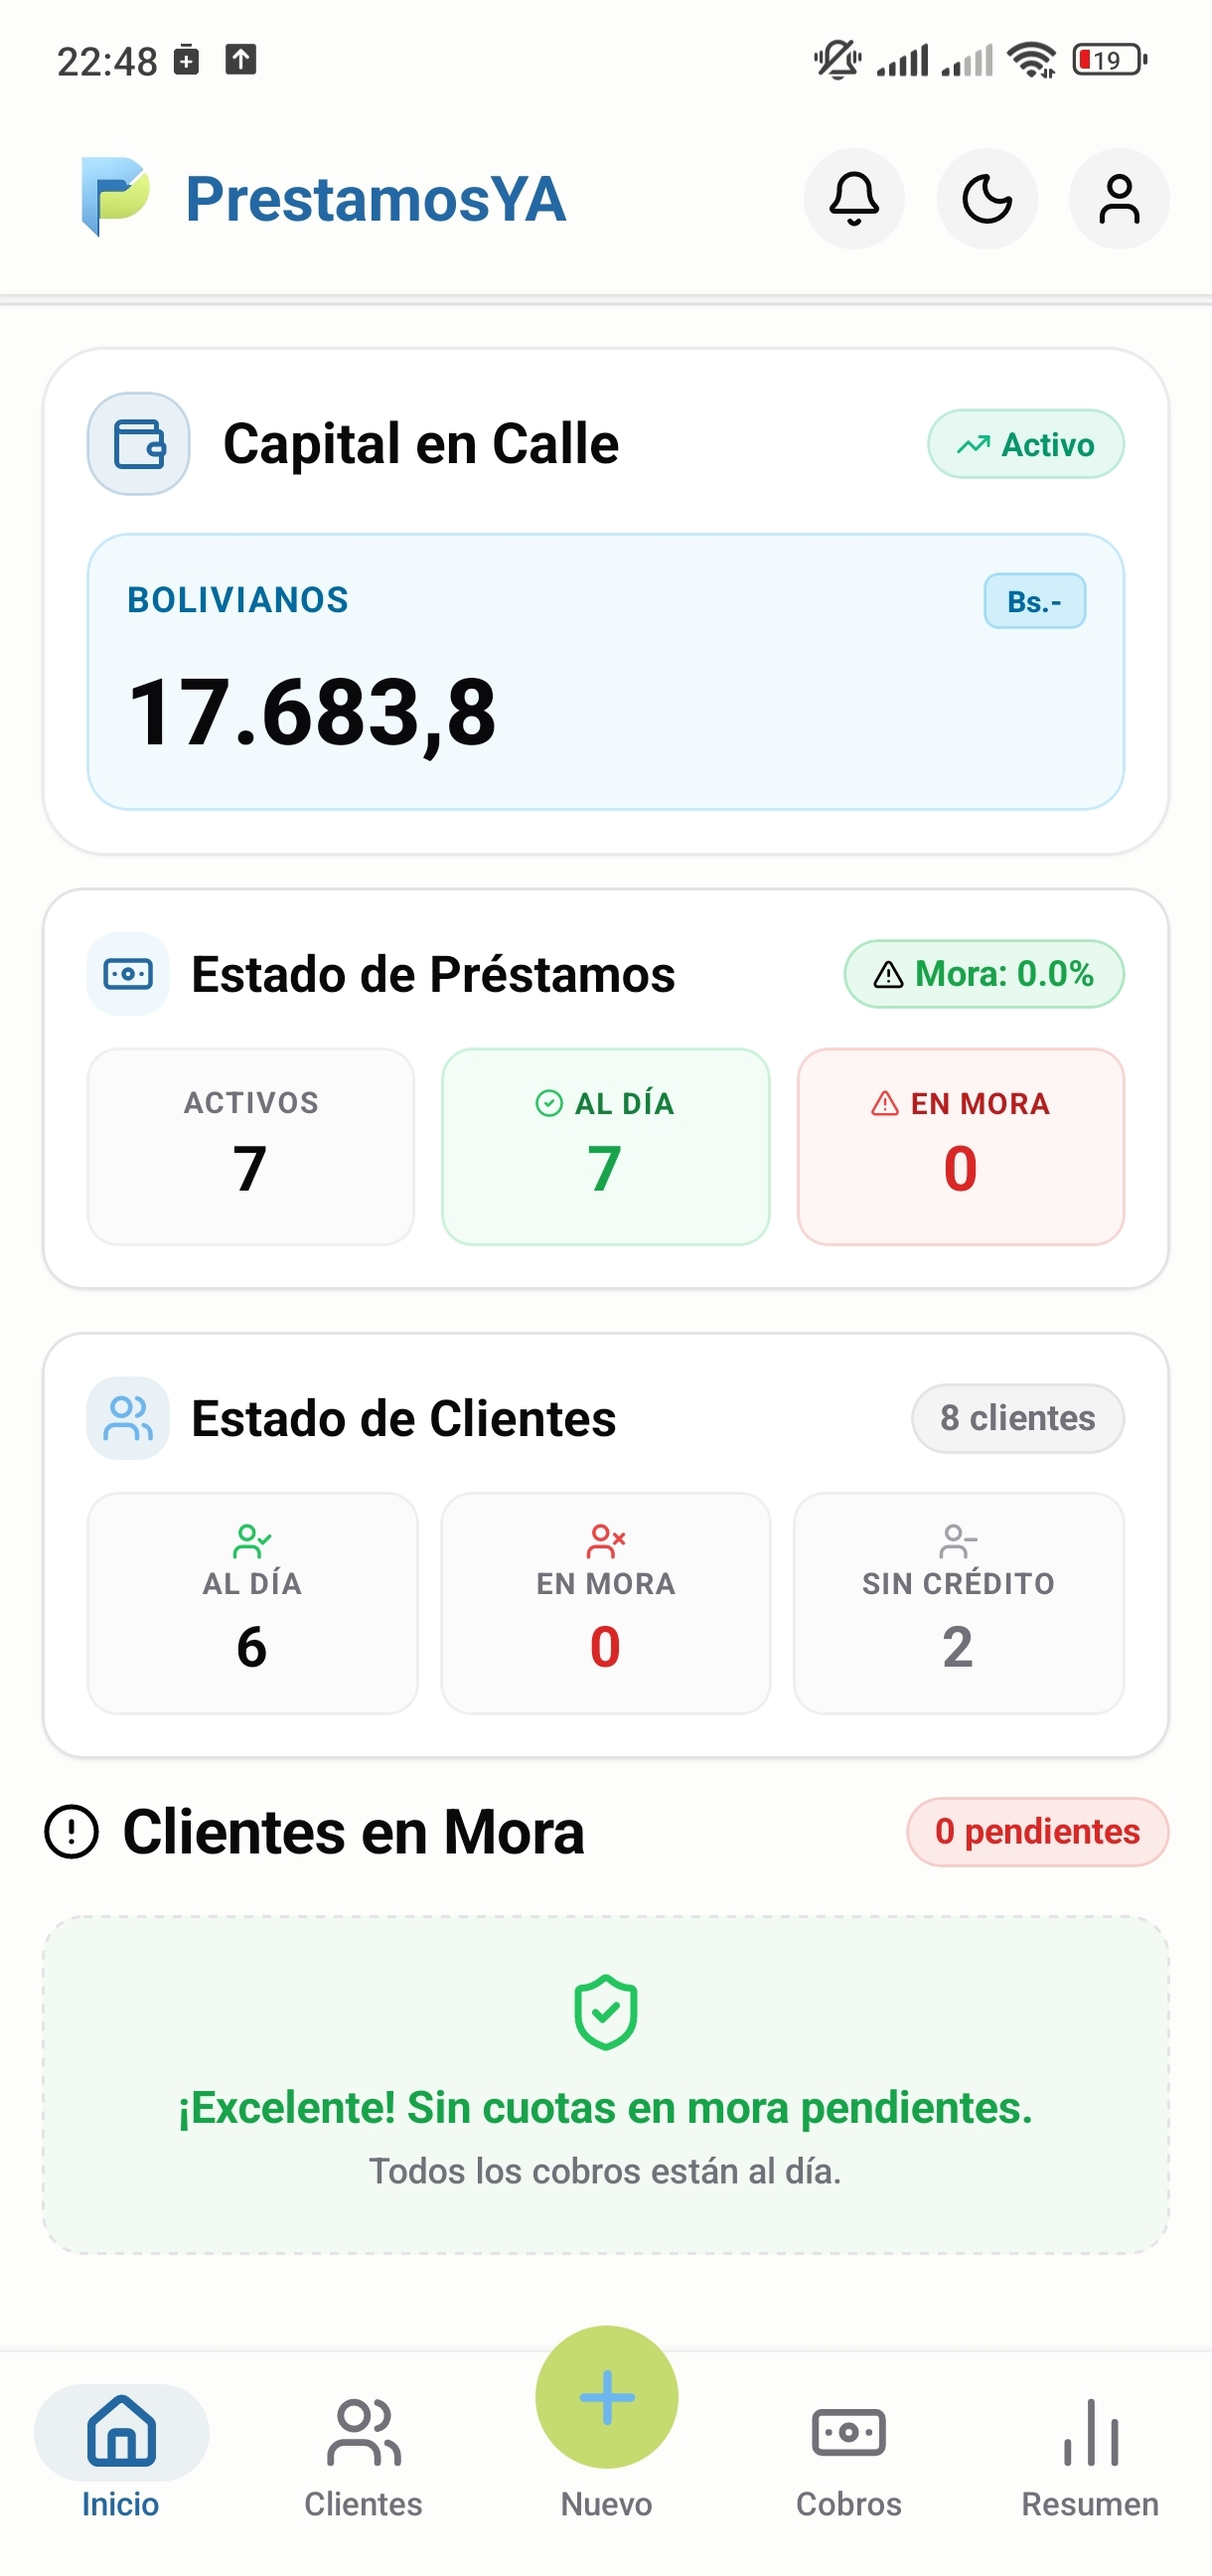
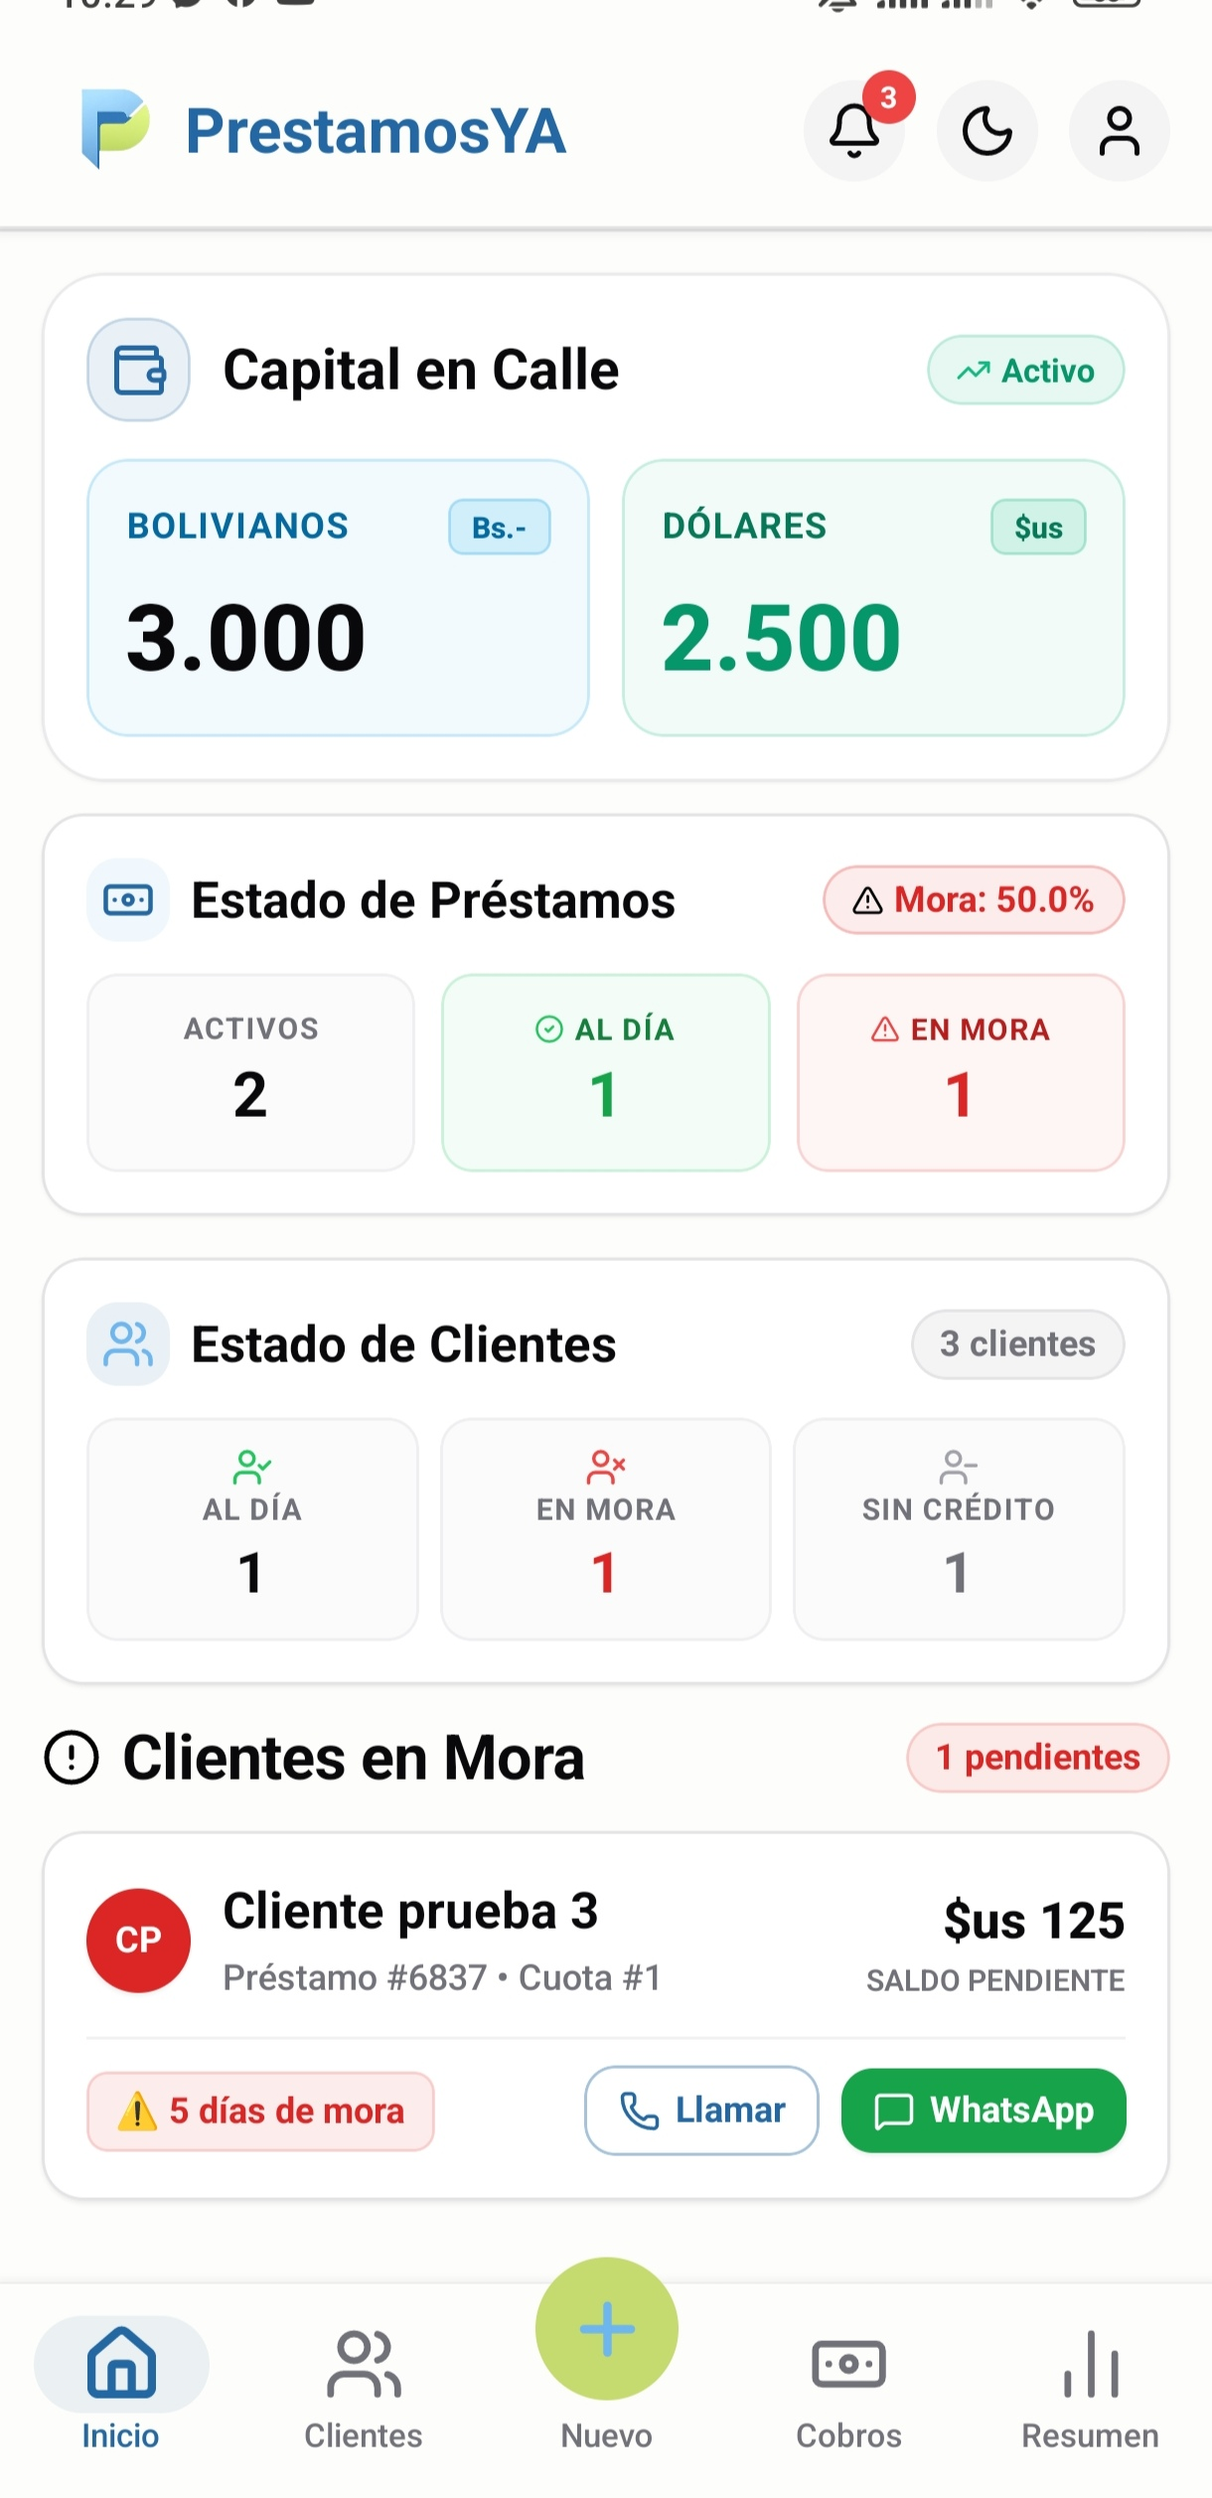
add new screen

diff --git a/README.md b/README.md
@@ -75,8 +75,14 @@ La arquitectura y las reglas de negocio están documentadas en el README de cada
       <img src="assets/11_vista_resumen_2.jpg" width="260" alt="Vista Resumen 2"/>
     </td>
     <td align="center">
-      <b>12. Notificación Push</b><br><br>
-      <img src="assets/12_notificacion_push.jpg" width="260" alt="Notificación Push"/>
+      <b>12. Vista Resumen Bimonetaria</b><br><br>
+      <img src="assets/12_vista_resumenBimonetaria.jpg" width="260" alt="Vista Resumen Bimonetaria"/>
+    </td>
+  </tr>
+  <tr>
+    <td align="center">
+      <b>13. Notificación Push</b><br><br>
+      <img src="assets/13_notificacion_push.jpg" width="260" alt="Notificación Push"/>
     </td>
   </tr>
 </table>
